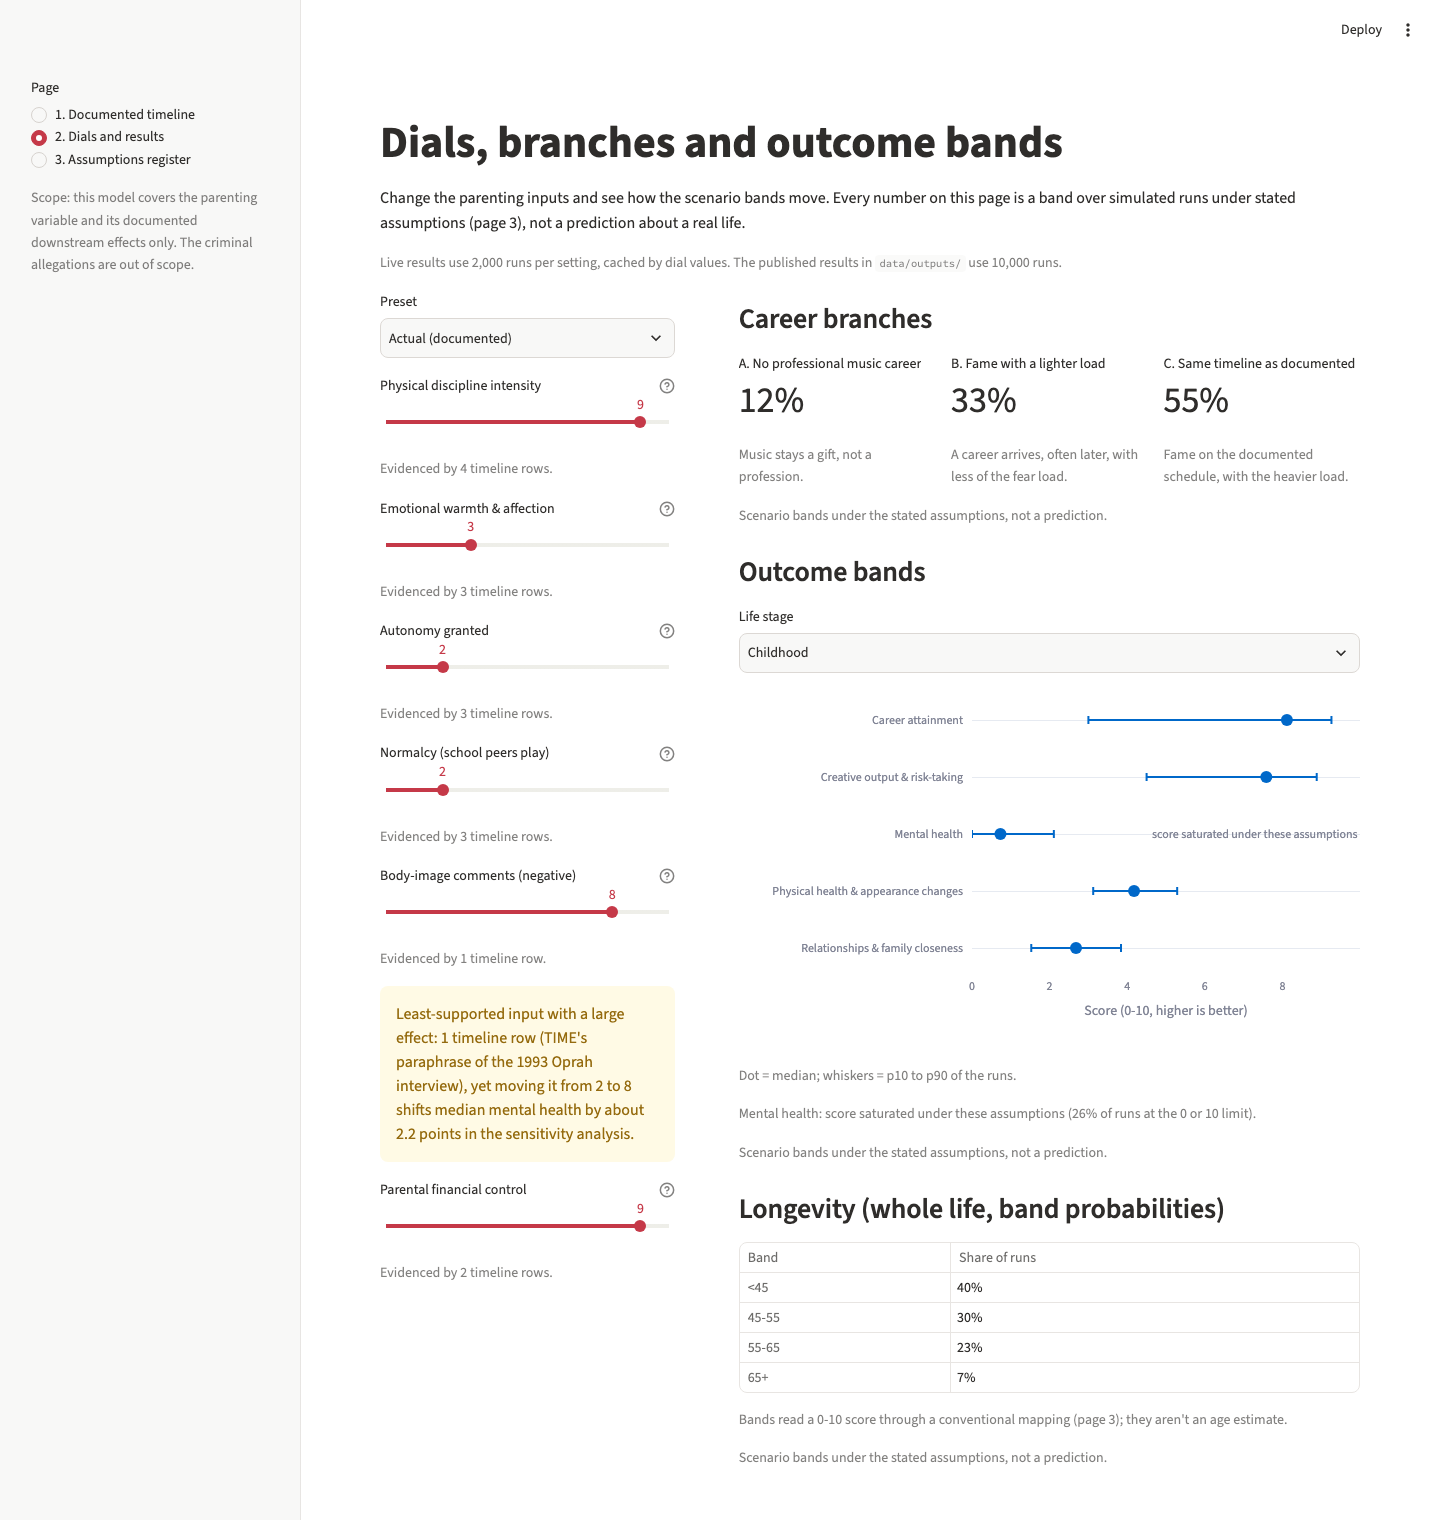
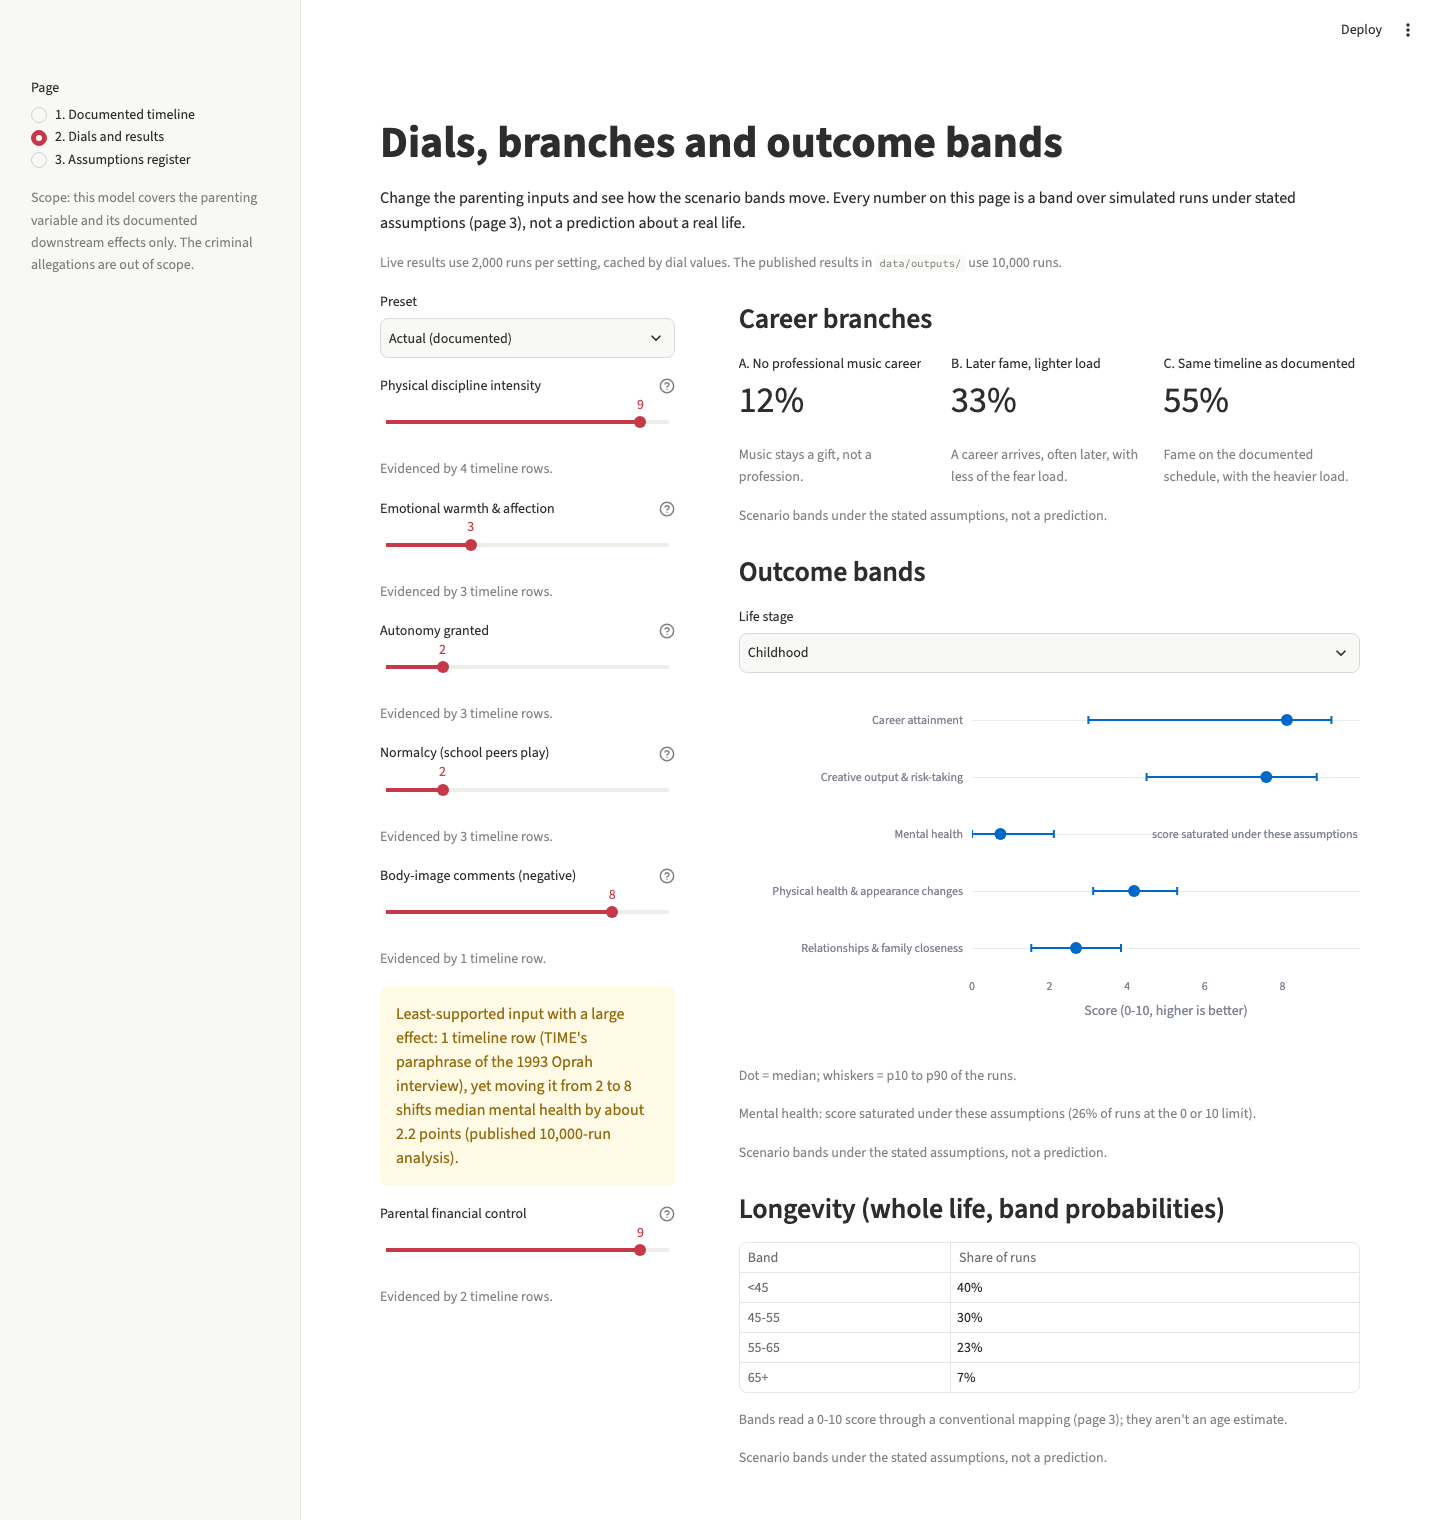
Phase 5: README - method, findings, limitations, run instructions

Changed region(s): [[0.25, 0.7421, 0.4688, 0.8658], [0.6875, 0.2164, 0.75, 0.2474]]

diff --git a/README.md b/README.md
@@ -1,0 +1,115 @@
+# Counterfactual: The Jackson Trajectory
+
+Counterfactual scenario modeling, applied to the most documented childhood in pop history. The model changes one input in Michael Jackson's documented life, his father's parenting style, and maps how the trajectory branches.
+
+**What this is:** a Monte Carlo scenario model. Every output is a band over 10,000 simulated runs, and each band rests on assumptions you can read on dashboard page 3 or in `data/parameters.csv`.
+
+**What it isn't:** a prediction about an alternate life, or a judgment about how he died.
+
+**Scope:** the model covers the parenting variable and its documented downstream effects only. The criminal allegations are out of scope.
+
+## Method
+
+1. **Six parenting dials** (0-10): physical discipline, warmth, autonomy, normalcy, body-image comments, financial control. The Actual preset is set from the documented record; two counterfactual presets lower the harsh dials.
+2. **Six mediators** come from the dials: practice hours, trauma / fear load, self-image, attachment, sleep and health, and financial independence timing.
+3. **A career branch.** Practice and trauma split each run three ways: A, no professional career; B, later fame with a lighter load; C, the documented timeline with the heavier load.
+4. **Six outcomes**, scored 0-10 at five life stages: career, creative output, mental health, physical health, relationships, longevity. Longevity is reported only as band probabilities (<45 / 45-55 / 55-65 / 65+), never as a single age.
+5. **29 links** connect dials to mediators to outcomes. Each one has a low/high range and a basis label: **RESEARCH** (6, a published study), **SIBLING CALIBRATION** (5, checked against the siblings) or **ASSUMPTION** (18, a stated judgment with a wide range). Most links are assumptions, and the model says so.
+6. **Monte Carlo.** Each run draws every coefficient from its range, plus a baseline for each outcome that stands for everything outside the parenting variable. Seed 42, 10,000 runs per preset.
+
+The full map is in [docs/mechanism_map.md](docs/mechanism_map.md). The research behind the RESEARCH links is in [docs/research_anchors.md](docs/research_anchors.md).
+
+## The control group
+
+Nine children grew up in the same house with the same father, and their exposure varied. Michael was lead singer from childhood. Rebbie and La Toya weren't in the group. Randy joined later. Janet was the youngest, and her father managed her until she was 19.
+
+Their public record (careers, their own statements about Joseph, lifespan to date) is in `data/sibling_outcomes.csv`. Eight sibling-like dial profiles (all ASSUMPTION) were run through the model. Two ranges and the longevity mapping were changed as a result, and then calibration was frozen. The full write-up is in [docs/calibration_notes.md](docs/calibration_notes.md).
+
+## Findings (bands under the stated assumptions)
+
+**1. The discipline trade-off.** Keep the Actual preset's other dials and lower discipline alone. The share of runs with no professional career rises sharply:
+
+| Discipline | 9 (Actual) | 7 | 5 | 3 | 2 |
+|---|---|---|---|---|---|
+| A: no professional career | 12% | 22% | 38% | 58% | 68% |
+
+This rests on three assumptions:
+- fear-driven practice is a strong path to skill (P04, 0.35-0.65)
+- fame likelihood crosses 50% at a practice level of 5.5 (the logistic midpoint)
+- career is scored on practice volume only, not on talent, opportunity or group role
+
+Change any of them and this finding moves.
+
+**2. The interaction.** The same low discipline doesn't have to end the career. In the "Firm but nurturing" preset (discipline 2, with warmth and autonomy raised), the no-career share is 29%, not 68%. That's because warmth and autonomy hold practice up: intrinsic motivation replacing fear. Both of those links are ASSUMPTION (P05, P06), so read this as a mechanism the model allows, not one it measured.
+
+| Preset | A: no career | B: later fame, lighter load | C: documented timeline | Mental health, Childhood (median, p10-p90) |
+|---|---|---|---|---|
+| Actual (documented) | 12% | 33% | 55% | 0.8 (0.0-2.2) |
+| Strict coach, warm father | 21% | 64% | 15% | 5.2 (4.2-6.2) |
+| Firm but nurturing | 29% | 61% | 11% | 6.8 (6.0-7.7) |
+
+**3. No single "most important dial."** One-at-a-time sensitivity (Actual preset, each dial moved from 2 to 8, 10,000 runs per side):
+- **Discipline** leads career (+4.7 points), creative output and longevity (the 65+ share falls by 43 percentage points).
+- **Warmth** leads mental health (+3.0) and relationships (+2.0).
+- **Body-image comments** lead physical health (−1.7) and nearly match discipline on mental health (−2.2). They're also the least-supported input: one timeline row.
+
+The published table is `data/outputs/sensitivity_actual.csv`.
+
+## Limitations
+
+- **The documented age-50 check fails.** Under the Actual preset the most likely band is <45 (40%). 45-55, where his documented age sits, holds 30%. It was never a calibration target, so it wasn't tuned back.
+- **About half the runs are ruled out for each living sibling.** On average 51% of runs end before a living sibling's current age. The model leans toward shorter lives than this family has had.
+- **The brothers' profile is the largest miss.** Jackie, Tito and Marlon went through the same rehearsal regime as Michael, and the model can't tell their documented lives apart from his.
+- **Actual's mental health sits on a floor.** About a quarter of runs score exactly 0, and the dashboard marks that band as saturated. No sibling check is possible: the project draws no inference about anyone's private mental health.
+- **Longevity is a conventional score-to-age mapping.** It's anchored in direction only: 7.0 stands for an ordinary lifespan for a US man born in 1958 (66.6 years, CDC/NCHS). It isn't a lifespan estimate.
+- **Career can't be ranked the way the record does.** Practice volume isn't talent, opportunity or group role.
+- **Calibration is frozen.** It stopped after one pass, to avoid fitting six lifespans run through profiles that are themselves guesses.
+- **No counterfactual data exists for anyone.** These bands are structured judgment anchored to research and to nine siblings' public record. One life, one family, one era.
+
+**The 2009 outcome.** Michael Jackson died on June 25, 2009, of acute propofol intoxication. The coroner ruled it a homicide, and his physician was convicted of involuntary manslaughter. That's an acute cause outside what the model's chronic longevity pathway represents.
+
+## How to run it
+
+```bash
+git clone https://github.com/rajisworking16/jackson-counterfactual.git
+cd jackson-counterfactual
+python3 -m venv .venv && source .venv/bin/activate
+pip install -r requirements.txt
+python model/simulate.py              # seeded, 10,000 runs; writes data/outputs/
+streamlit run app/streamlit_app.py    # the dashboard; ?page=2 opens a page directly
+pip install -r requirements-dev.txt
+python -m pytest tests/               # 16 dashboard tests
+```
+
+The dashboard runs the engine live at 2,000 runs per setting. The published results in `data/outputs/` use 10,000.
+
+## How it was built
+
+Python, pandas and NumPy for the model; Streamlit and Plotly for the dashboard; plain CSVs for every dataset. Each engine function was tried first in `notebooks/03_engine_sandbox.ipynb`, with its output predicted by hand, and then moved into `model/simulate.py`.
+
+The implementation was AI-assisted, using Claude Code. The design, the scope, the ground rules and every calibration decision were mine: which changes to apply, which to reject, and when to freeze. The commit history and `docs/calibration_notes.md` record each decision and the reason for it.
+
+## Sources
+
+**About Michael and the family.** His own words: *Moonwalk* (1988), the Oprah interview (February 10, 1993), the Oxford Union speech (2001). Also court and coroner records (the August 2009 ruling, the November 2011 conviction) and the siblings' own public statements. Every row of `data/life_events.csv` (33 events) and `data/sibling_outcomes.csv` carries its source and URL.
+
+**Research:**
+- Gershoff & Grogan-Kaylor (2016), *Journal of Family Psychology*, on spanking and child outcomes.
+- Felitti et al. (1998) and the CDC-Kaiser ACE study, on childhood adversity and adult health.
+- CDC/NCHS life expectancy tables.
+
+Details are in [docs/research_anchors.md](docs/research_anchors.md).
+
+## Screenshots
+
+Page 1, the documented timeline (documented events only, no model output):
+
+![Documented timeline](docs/screenshots/page1_timeline_desktop.png)
+
+Page 2, dials, career branches and outcome bands:
+
+![Dials and results](docs/screenshots/page2_dials_results_desktop.png)
+
+Page 3, the assumptions register:
+
+![Assumptions register](docs/screenshots/page3_assumptions_register_desktop.png)

diff --git a/docs/BUILD_GUIDE.md b/docs/BUILD_GUIDE.md
@@ -20,11 +20,12 @@
 | 2. Data model | ✅ Done (life stages, 29 parameters, mechanism map, review fixes) |
 | 3. Simulation engine | ✅ Done, calibration frozen (seeded engine, 10,000 runs; M12, bins, display rule, per-run baselines; censored sibling check) |
 | 4. Dashboard | ✅ Done (3 pages, 16 tests, screenshots; label and config fixes) |
-| 5. Write-up + ship | ⬜ Next: Step 5.1 (README) |
+| 5. Write-up + ship | 🟡 In progress. Step 5.1 ✅ README. Next: Step 5.3 (portfolio copy); Step 5.2 waits for real readers |
 
 **Commits (newest first):**
 ```
-Phase 4: label and config fixes   (this commit)
+Phase 5: README - method, findings, limitations, run instructions   (this commit)
+46fd9f2 Phase 4: label and config fixes
 f9f5c54 Phase 4: dashboard polish + screenshots
 bc7c31d Phase 4: dashboard page 3 - assumptions register, sources, limitations
 5cbe745 Phase 4: dashboard page 2 - dials, branch cards, outcome bands
@@ -72,7 +73,7 @@ c08a288 Phase 1: fix audition/signing/#1 dates, first 3 rows sourced
 - Jermaine's 2011 memoir hasn't been read.
 - Janet's split date: WDET says 1985; ET 2022 places it before her second album.
 
-**Next step:** Step 5.1 README, then Step 5.3 portfolio copy. Stop before Step 5.2 (real readers).
+**Next step:** Step 5.3 portfolio copy, then STOP before Step 5.2.
 
 **Hard stops still ahead:** Step 5.2 (real readers). The v1.0 tag and repo visibility are Pranav's.
 
@@ -741,7 +742,7 @@ git commit -m "Phase 4: dashboard polish + screenshots"
 **Goal:** a README an interviewer can read in 4 minutes, a portfolio card, one LinkedIn post.
 **Session prompt:** "Help me write the project README and portfolio blurb: method first, findings second, limitations stated plainly, no certainty claims about an alternate life."
 
-## Step 5.1 - The README (create it; the repo has none yet)
+## Step 5.1 - The README (create it; the repo has none yet) ✅ DONE (2026-11-20)
 
 Structure, in this order:
 1. **Title + one-line pitch** (from the spec: "Counterfactual scenario modeling, applied to the most documented childhood in pop history…")
